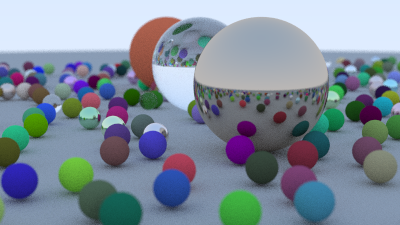
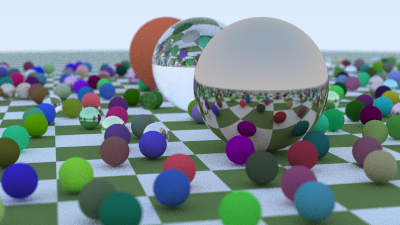
Introduce textures (#12)

diff --git a/src/config/mod.rs b/src/config/mod.rs
@@ -2,10 +2,13 @@ use crate::material::Material;
 use crate::material::dielectric::Dielectric;
 use crate::material::lambertian::Lambertian;
 use crate::material::metal::Metal;
+use crate::material::texture::Checkered;
+use crate::material::texture::SolidColor;
 use crate::object::sphere::Sphere;
 use colored::Colorize;
 use nalgebra::Vector3;
 use serde::Deserialize;
+use serde_inline_default::serde_inline_default;
 use std::fmt;
 use std::ops::Range;
 use std::sync::Arc;
@@ -53,6 +56,7 @@ impl fmt::Display for AspectRatios {
     }
 }
 
+#[serde_inline_default]
 #[derive(Deserialize, Debug)]
 pub struct CameraOptions {
     pub aspect_ratio: AspectRatios,
@@ -66,7 +70,9 @@ pub struct CameraOptions {
     pub look_at: [f32; 3],
     pub vup: [f32; 3],
 
+    #[serde_inline_default(0.0)]
     pub defocus_angle: f32,
+    #[serde_inline_default(1.0)]
     pub focus_dist: f32,
 }
 
@@ -85,6 +91,13 @@ enum MaterialDef {
     #[serde(rename = "lambertian")]
     Lambertian { albedo: [f32; 3] },
 
+    #[serde(rename = "checkered")]
+    Checkered {
+        even: Option<[f32; 3]>,
+        odd: Option<[f32; 3]>,
+        scale: Option<f32>,
+    },
+
     #[serde(rename = "metal")]
     Metal { albedo: [f32; 3], roughness: f32 },
 
@@ -101,9 +114,22 @@ enum MaterialDef {
 impl MaterialDef {
     fn into_material(self) -> Arc<dyn Material> {
         match self {
-            MaterialDef::Lambertian { albedo } => Arc::new(Lambertian::new(Vector3::new(
-                albedo[0], albedo[1], albedo[2],
+            MaterialDef::Lambertian { albedo } => Arc::new(Lambertian::new(Arc::new(
+                SolidColor::new(Vector3::new(albedo[0], albedo[1], albedo[2])),
             ))),
+            MaterialDef::Checkered { even, odd, scale } => {
+                let scale = scale.unwrap_or(1.0);
+
+                let even = even.unwrap_or([0.05, 0.05, 0.05]);
+
+                let odd = odd.unwrap_or([0.95, 0.95, 0.95]);
+
+                let even_color = SolidColor::new(Vector3::new(even[0], even[1], even[2]));
+                let odd_color = SolidColor::new(Vector3::new(odd[0], odd[1], odd[2]));
+
+                let checkered = Checkered::new(scale, Arc::new(even_color), Arc::new(odd_color));
+                Arc::new(Lambertian::new(Arc::new(checkered)))
+            }
             MaterialDef::Metal { albedo, roughness } => Arc::new(Metal::new(
                 Vector3::new(albedo[0], albedo[1], albedo[2]),
                 roughness,

diff --git a/src/material/texture.rs b/src/material/texture.rs
@@ -1,0 +1,68 @@
+use nalgebra::Vector3;
+use std::fmt::Debug;
+use std::sync::Arc;
+
+pub trait Texture: Debug {
+    fn value(&self, u: f32, v: f32, p: Vector3<f32>) -> Vector3<f32>;
+}
+
+#[derive(Debug)]
+pub struct SolidColor {
+    pub albedo: Vector3<f32>,
+}
+
+impl SolidColor {
+    pub fn new(albedo: Vector3<f32>) -> Self {
+        SolidColor { albedo }
+    }
+}
+
+impl Default for SolidColor {
+    fn default() -> Self {
+        SolidColor::new(Vector3::new(1.0, 0.75, 0.79))
+    }
+}
+
+impl Texture for SolidColor {
+    fn value(&self, _: f32, _: f32, _: Vector3<f32>) -> Vector3<f32> {
+        self.albedo
+    }
+}
+
+#[derive(Debug)]
+pub struct Checkered {
+    pub even: Arc<dyn Texture>,
+    pub odd: Arc<dyn Texture>,
+    pub scale: f32,
+}
+
+unsafe impl Sync for Checkered {}
+unsafe impl Send for Checkered {}
+
+impl Checkered {
+    pub fn new(scale: f32, even: Arc<dyn Texture>, odd: Arc<dyn Texture>) -> Self {
+        let scale = 1.0 / scale;
+        Checkered { scale, even, odd }
+    }
+}
+
+impl Default for Checkered {
+    fn default() -> Self {
+        let black = SolidColor::new(Vector3::new(0.01, 0.01, 0.01));
+        let white = SolidColor::new(Vector3::new(0.99, 0.99, 0.99));
+        Checkered::new(1.0, Arc::new(black), Arc::new(white))
+    }
+}
+
+impl Texture for Checkered {
+    fn value(&self, u: f32, v: f32, p: Vector3<f32>) -> Vector3<f32> {
+        let x_int = (p.x * self.scale).floor() as i32;
+        let y_int = (p.y * self.scale).floor() as i32;
+        let z_int = (p.z * self.scale).floor() as i32;
+
+        match (x_int + y_int + z_int) % 2 {
+            0 => self.even.value(u, v, p),
+            _ => self.odd.value(u, v, p),
+        }
+    }
+}

diff --git a/src/material/lambertian.rs b/src/material/lambertian.rs
@@ -1,19 +1,31 @@
 use crate::material::Material;
+use crate::material::texture::SolidColor;
+use crate::material::texture::Texture;
 use crate::math;
 use crate::math::near_zero;
 use crate::object::hittable::HitRecord;
 use crate::ray::Ray;
 use nalgebra::Vector3;
 use std::fmt::Debug;
+use std::sync::Arc;
 
 #[derive(Debug)]
 pub struct Lambertian {
-    pub albedo: Vector3<f32>,
+    pub texture: Arc<dyn Texture>,
 }
 
+unsafe impl Sync for Lambertian {}
+unsafe impl Send for Lambertian {}
+
 impl Lambertian {
-    pub fn new(albedo: Vector3<f32>) -> Self {
-        Lambertian { albedo }
+    pub fn new(texture: Arc<dyn Texture>) -> Self {
+        Lambertian { texture }
+    }
+}
+
+impl Default for Lambertian {
+    fn default() -> Self {
+        Lambertian::new(Arc::new(SolidColor::default()))
     }
 }
 
@@ -33,7 +45,7 @@ impl Material for Lambertian {
         scattered.origin = record.point;
         scattered.time = r_in.time;
         scattered.direction = scatter_direction;
-        attenuation.copy_from(&self.albedo);
+        attenuation.copy_from(&self.texture.value(record.u, record.v, record.point));
         true
     }
 }

diff --git a/src/object/sphere.rs b/src/object/sphere.rs
@@ -5,6 +5,7 @@ use crate::object::hittable::HitRecord;
 use crate::object::hittable::Hittable;
 use crate::ray::Ray;
 use nalgebra::Vector3;
+use std::f32::consts::PI;
 use std::marker::Sync;
 use std::sync::Arc;
 
@@ -18,6 +19,13 @@ pub struct Sphere {
 
 unsafe impl Sync for Sphere {}
 unsafe impl Send for Sphere {}
+
+pub fn get_sphere_uv(point: Vector3<f32>) -> (f32, f32) {
+    let theta = point.y.acos();
+    let phi = (-point.z).atan2(point.x) + PI;
+
+    (phi / (2.0 * PI), theta / PI)
+}
 
 impl Sphere {
     pub fn new(
@@ -70,6 +78,7 @@ impl Hittable for Sphere {
         let outward_normal = (record.point - current_center) / self.radius;
         record.set_face_normal(r, &outward_normal);
         record.material = Arc::clone(&self.material);
+        (record.u, record.v) = get_sphere_uv(outward_normal);
 
         true
     }

diff --git a/src/object/hittable.rs b/src/object/hittable.rs
@@ -13,6 +13,8 @@ pub struct HitRecord {
     pub t: f32,
     pub front_face: bool,
     pub material: Arc<dyn Material>,
+    pub u: f32,
+    pub v: f32,
 }
 
 impl HitRecord {
@@ -31,7 +33,9 @@ impl HitRecord {
             normal: Vector3::default(),
             t: 0.0,
             front_face: false,
-            material: Arc::new(Lambertian::new(Vector3::new(1.0, 0.75, 0.79))),
+            material: Arc::new(Lambertian::default()),
+            u: 0.0,
+            v: 0.0,
         }
     }
 }

diff --git a/src/material/mod.rs b/src/material/mod.rs
@@ -1,13 +1,14 @@
 pub mod dielectric;
 pub mod lambertian;
 pub mod metal;
+pub mod texture;
 
 use crate::object::hittable::HitRecord;
 use crate::ray::Ray;
 use nalgebra::Vector3;
 use std::fmt::Debug;
 
-pub trait Material: Debug {
+pub trait Material: Debug + Sync + Send {
     fn scatter(
         &self,
         ray_in: &Ray,
